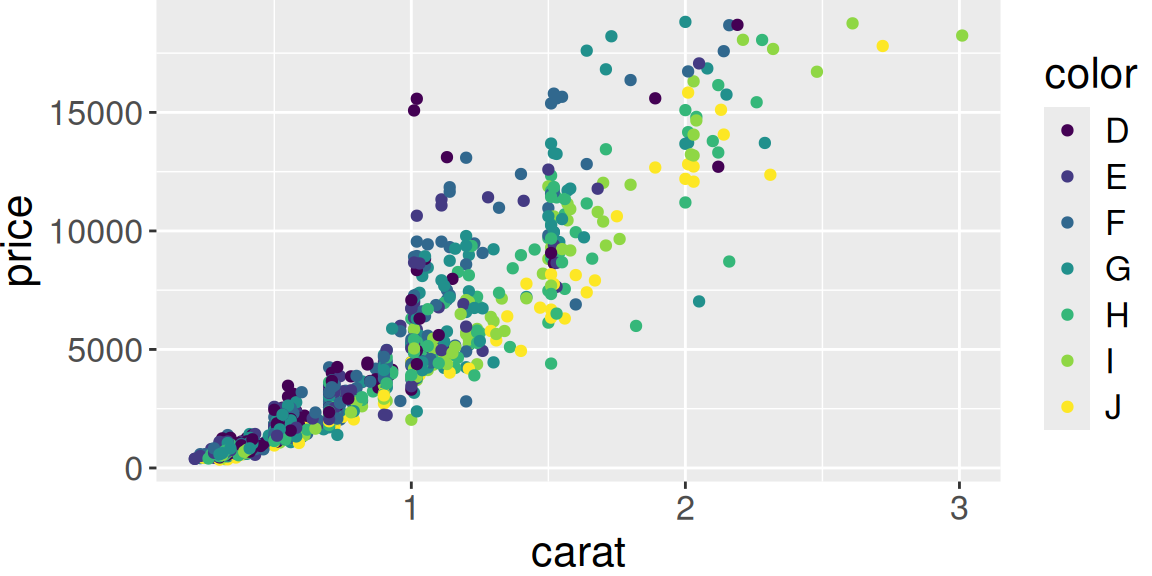
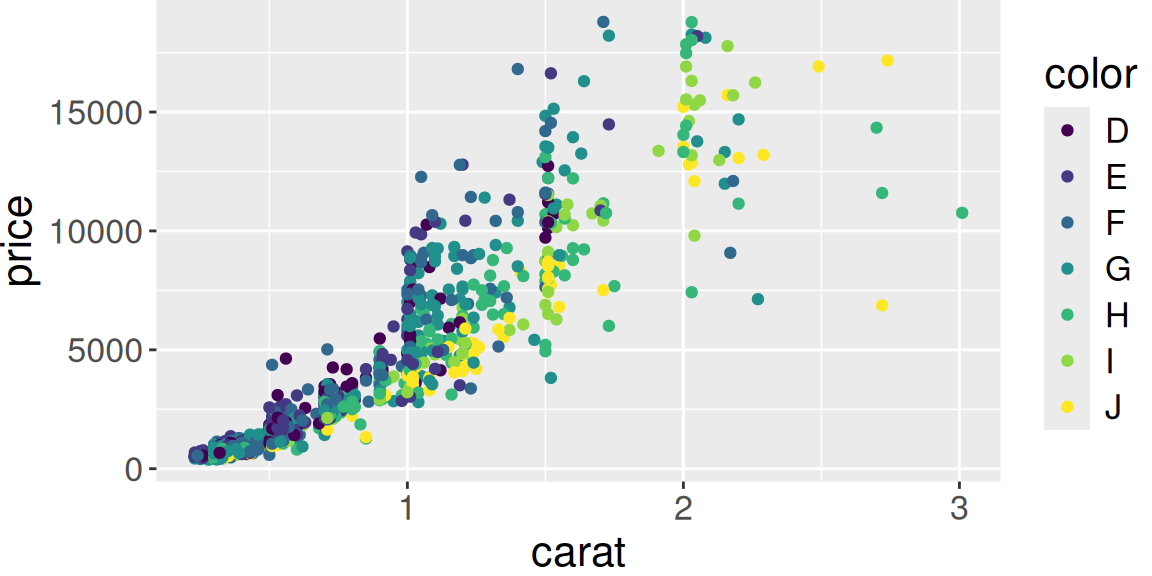
TEST

diff --git a/index.html b/index.html
@@ -5,7 +5,7 @@
   <meta name="generator" content="pandoc">
   <meta name="author" content="Nicole Kinlock" />
   <meta name="dcterms.date" content="2025-06-11" />
-  <title>R mini course</title>
+  <title>R mini course TEST</title>
   <meta name="apple-mobile-web-app-capable" content="yes">
   <meta name="apple-mobile-web-app-status-bar-style" content="black-translucent">
   <meta name="viewport" content="width=device-width, initial-scale=1.0, maximum-scale=1.0, user-scalable=no, minimal-ui">
@@ -130,7 +130,7 @@
     <div class="slides">
 
 <section id="title-slide">
-  <h1 class="title">R mini course</h1>
+  <h1 class="title">R mini course TEST</h1>
   <h2 class="author">Nicole Kinlock</h2>
   <h3 class="date">June 11, 2025</h3>
 </section>
@@ -671,7 +671,7 @@ value of these elements?</p></li>
 function</p>
 <div class="sourceCode" id="cb65"><pre class="sourceCode r"><code class="sourceCode r"><span id="cb65-1"><a href="#cb65-1" aria-hidden="true" tabindex="-1"></a>norm <span class="ot">&lt;-</span> <span class="fu">rnorm</span>(<span class="at">n =</span> <span class="dv">1000</span>, <span class="at">mean =</span> <span class="dv">0</span>, <span class="at">sd =</span> <span class="dv">1</span>)</span>
 <span id="cb65-2"><a href="#cb65-2" aria-hidden="true" tabindex="-1"></a><span class="fu">head</span>(norm)</span></code></pre></div>
-<pre><code>## [1]  2.0235244  0.6195797 -0.2248441 -0.2144881 -0.4949040 -0.2877673</code></pre>
+<pre><code>## [1]  0.8861641 -0.2489742 -1.7741566  1.4745526  1.1570297  0.8432353</code></pre>
 <p><img src="index_files/figure-revealjs/unnamed-chunk-26-1.png" width="288" /></p>
 </section>
 <section id="your-turn-5" class="slide level2"
@@ -766,9 +766,9 @@ histogram of the sample.</p></li>
 <code>sample()</code> function</p>
 <div class="sourceCode" id="cb68"><pre class="sourceCode r"><code class="sourceCode r"><span id="cb68-1"><a href="#cb68-1" aria-hidden="true" tabindex="-1"></a>x <span class="ot">&lt;-</span> <span class="dv">1</span><span class="sc">:</span><span class="dv">50</span></span>
 <span id="cb68-2"><a href="#cb68-2" aria-hidden="true" tabindex="-1"></a><span class="fu">sample</span>(x, <span class="at">size =</span> <span class="dv">20</span>)  <span class="co"># sample without replacement</span></span></code></pre></div>
-<pre><code>##  [1] 10 12 16 11 36 46  8  5 14 42 24 34  6 28 49 20 18 44  7 31</code></pre>
+<pre><code>##  [1]  3 32 42 26 14 16 43 35 28  1  2 31 21  4 29 36 15 11 45 18</code></pre>
 <div class="sourceCode" id="cb70"><pre class="sourceCode r"><code class="sourceCode r"><span id="cb70-1"><a href="#cb70-1" aria-hidden="true" tabindex="-1"></a><span class="fu">sample</span>(x, <span class="at">size =</span> <span class="dv">20</span>, <span class="at">replace =</span> <span class="cn">TRUE</span>)  <span class="co"># sample with replacement</span></span></code></pre></div>
-<pre><code>##  [1] 25 43 39 16  8 20 17 16 25 48 33 41 44 11 38 50 25 12 35 33</code></pre>
+<pre><code>##  [1]  2  1 11  2 23 16 14  2  7 44 20 32 50  8  7 23 24 50 12 41</code></pre>
 </section>
 <section id="your-turn-8" class="slide level2"
 data-background-color="#b3cde3">
@@ -1674,8 +1674,8 @@ class="sourceCode r"><code class="sourceCode r"><span id="cb185-1"><a href="#cb1
 <span id="cb185-4"><a href="#cb185-4" aria-hidden="true" tabindex="-1"></a>    output.vec[i] <span class="ot">&lt;-</span> x[i] <span class="sc">*</span> <span class="dv">10</span></span>
 <span id="cb185-5"><a href="#cb185-5" aria-hidden="true" tabindex="-1"></a>}</span>
 <span id="cb185-6"><a href="#cb185-6" aria-hidden="true" tabindex="-1"></a>output.vec</span></code></pre></div>
-<pre><code>##  [1]  3.647758  9.737986  7.918528  8.906231  2.546560  1.014760 18.222218
-##  [8] 15.577186  5.902993  3.454475</code></pre>
+<pre><code>##  [1]  7.5114531  5.4902849  3.9083699 10.8623299 12.1150292 13.3143443
+##  [7] 11.3995153  0.8978763 12.0780165  2.1260210</code></pre>
 </section>
 <section id="how-do-we-save-for-loop-outputs-1" class="slide level2">
 <h2>How do we save for-loop outputs?</h2>
@@ -1691,8 +1691,8 @@ class="sourceCode r"><code class="sourceCode r"><span id="cb187-1"><a href="#cb1
 <span id="cb187-4"><a href="#cb187-4" aria-hidden="true" tabindex="-1"></a>    output.vec[i] <span class="ot">&lt;-</span> x[i] <span class="sc">*</span> <span class="dv">10</span></span>
 <span id="cb187-5"><a href="#cb187-5" aria-hidden="true" tabindex="-1"></a>}</span>
 <span id="cb187-6"><a href="#cb187-6" aria-hidden="true" tabindex="-1"></a>output.vec</span></code></pre></div>
-<pre><code>##  [1] 17.286015  7.683266 10.372833  7.331214 11.929529 12.529461  8.724110
-##  [8]  1.377951 13.985177 12.193510</code></pre>
+<pre><code>##  [1]  3.64806158  9.03782921  2.83679823 14.04016806  2.76244785 18.20414756
+##  [7]  8.90670954  9.23140684  0.06322089  0.72076257</code></pre>
 </section>
 <section id="your-turn-16" class="slide level2"
 data-background-color="#b3cde3">
@@ -1760,7 +1760,7 @@ class="sourceCode r"><code class="sourceCode r"><span id="cb194-1"><a href="#cb1
 <span id="cb194-8"><a href="#cb194-8" aria-hidden="true" tabindex="-1"></a>    }</span>
 <span id="cb194-9"><a href="#cb194-9" aria-hidden="true" tabindex="-1"></a>}</span>
 <span id="cb194-10"><a href="#cb194-10" aria-hidden="true" tabindex="-1"></a>output.vec</span></code></pre></div>
-<pre><code>##  [1] -100 -100 -100 -100    1 -100 -100    4 -100    4</code></pre>
+<pre><code>##  [1]    4    1    1 -100    1    1 -100 -100    4 -100</code></pre>
 </section>
 <section id="control-flow-statements---break" class="slide level2">
 <h2>Control flow statements - break</h2>
@@ -1835,13 +1835,13 @@ arguments
 <div class="sourceCode" id="cb200"><pre
 class="sourceCode r"><code class="sourceCode r"><span id="cb200-1"><a href="#cb200-1" aria-hidden="true" tabindex="-1"></a>M <span class="ot">&lt;-</span> <span class="fu">matrix</span>(<span class="fu">rnorm</span>(<span class="dv">9</span>), <span class="at">ncol =</span> <span class="dv">3</span>, <span class="at">nrow =</span> <span class="dv">3</span>)</span>
 <span id="cb200-2"><a href="#cb200-2" aria-hidden="true" tabindex="-1"></a>M</span></code></pre></div>
-<pre><code>##            [,1]       [,2]       [,3]
-## [1,] -0.4642892 -0.5501913 -0.7001564
-## [2,] -1.5674587 -1.1784813 -1.2992266
-## [3,] -1.2042780 -0.4516637 -1.0629343</code></pre>
+<pre><code>##             [,1]       [,2]      [,3]
+## [1,]  0.07338132 -0.9516929 -0.578038
+## [2,] -0.12021211 -1.5081028  1.493833
+## [3,] -0.31325197 -1.1734731 -0.934643</code></pre>
 <div class="sourceCode" id="cb202"><pre
 class="sourceCode r"><code class="sourceCode r"><span id="cb202-1"><a href="#cb202-1" aria-hidden="true" tabindex="-1"></a><span class="fu">apply</span>(M, <span class="dv">2</span>, median)</span></code></pre></div>
-<pre><code>## [1] -1.2042780 -0.5501913 -1.0629343</code></pre>
+<pre><code>## [1] -0.1202121 -1.1734731 -0.5780380</code></pre>
 </section>
 <section id="apply-vs.-for-loop" class="slide level2">
 <h2><code>apply</code> vs. for-loop</h2>
@@ -1852,7 +1852,7 @@ class="sourceCode r"><code class="sourceCode r"><span id="cb204-1"><a href="#cb2
 <span id="cb204-3"><a href="#cb204-3" aria-hidden="true" tabindex="-1"></a>    median.vec[i] <span class="ot">&lt;-</span> <span class="fu">median</span>(M[, i])</span>
 <span id="cb204-4"><a href="#cb204-4" aria-hidden="true" tabindex="-1"></a>}</span>
 <span id="cb204-5"><a href="#cb204-5" aria-hidden="true" tabindex="-1"></a>median.vec</span></code></pre></div>
-<pre><code>## [1] -1.2042780 -0.5501913 -1.0629343</code></pre>
+<pre><code>## [1] -0.1202121 -1.1734731 -0.5780380</code></pre>
 </section>
 <section id="apply-family-of-functions" class="slide level2">
 <h2><code>apply</code> family of functions</h2>
@@ -1889,7 +1889,7 @@ class="sourceCode r"><code class="sourceCode r"><span id="cb208-1"><a href="#cb2
 ## [1] 12.3
 ## 
 ## [[3]]
-## [1] -2.512065</code></pre>
+## [1] 3.100375</code></pre>
 </section>
 <section id="useful-links" class="slide level2">
 <h2>Useful links</h2>
@@ -2444,9 +2444,9 @@ observations in each row</p>
 <div class="sourceCode" id="cb251"><pre
 class="sourceCode r"><code class="sourceCode r"><span id="cb251-1"><a href="#cb251-1" aria-hidden="true" tabindex="-1"></a>spp.df.wide[<span class="dv">1</span><span class="sc">:</span><span class="dv">3</span>, ]</span></code></pre></div>
 <pre><code>##   SpeciesA SpeciesB SpeciesC SpeciesD
-## 1 49.50402 80.42932 20.69487 24.98056
-## 2 51.71980 78.74751 20.01322 23.54121
-## 3 51.22642 70.36322 20.67263 24.36075</code></pre>
+## 1 49.06959 83.07043 20.73574 24.52579
+## 2 48.40202 65.36905 20.13689 26.22547
+## 3 50.09242 75.78387 20.52578 24.72197</code></pre>
 <div class="sourceCode" id="cb253"><pre
 class="sourceCode r"><code class="sourceCode r"><span id="cb253-1"><a href="#cb253-1" aria-hidden="true" tabindex="-1"></a><span class="fu">dim</span>(spp.df.wide)</span></code></pre></div>
 <pre><code>## [1] 100   4</code></pre>
@@ -2458,9 +2458,9 @@ format, with only one row per observation (experimental unit)</p>
 <div class="sourceCode" id="cb255"><pre
 class="sourceCode r"><code class="sourceCode r"><span id="cb255-1"><a href="#cb255-1" aria-hidden="true" tabindex="-1"></a>spp.df.long[<span class="dv">1</span><span class="sc">:</span><span class="dv">3</span>, ]</span></code></pre></div>
 <pre><code>##   Species     Mass
-## 1       A 80.82865
-## 2       B 76.20810
-## 3       C 67.97256</code></pre>
+## 1       A 66.64098
+## 2       B 75.87060
+## 3       C 73.08989</code></pre>
 <div class="sourceCode" id="cb257"><pre
 class="sourceCode r"><code class="sourceCode r"><span id="cb257-1"><a href="#cb257-1" aria-hidden="true" tabindex="-1"></a><span class="fu">dim</span>(spp.df.long)</span></code></pre></div>
 <pre><code>## [1] 400   2</code></pre>
@@ -2475,12 +2475,12 @@ class="sourceCode r"><code class="sourceCode r"><span id="cb259-1"><a href="#cb2
 <span id="cb259-5"><a href="#cb259-5" aria-hidden="true" tabindex="-1"></a>                           <span class="at">D =</span> <span class="fu">rnorm</span>(<span class="dv">100</span>, <span class="dv">55</span>, <span class="dv">3</span>))</span>
 <span id="cb259-6"><a href="#cb259-6" aria-hidden="true" tabindex="-1"></a><span class="fu">head</span>(test.df.wide)</span></code></pre></div>
 <pre><code>##          A        B        C        D
-## 1 47.84023 81.15026 56.94995 50.43480
-## 2 61.00265 76.08040 44.45706 52.15845
-## 3 49.62270 80.18758 47.86186 49.58533
-## 4 46.58760 68.04425 48.94547 61.58026
-## 5 56.93436 74.59749 49.35064 52.17808
-## 6 48.47184 72.58853 53.68440 58.59832</code></pre>
+## 1 56.68955 71.04284 45.42085 58.52070
+## 2 62.60548 70.76774 51.61782 57.61679
+## 3 49.93849 83.05699 54.69181 54.16641
+## 4 42.66107 73.48540 50.19038 54.95161
+## 5 46.63581 75.40971 53.05156 57.19263
+## 6 45.40071 72.83677 49.71768 51.48626</code></pre>
 </section>
 <section id="melting-from-wide-to-long-1" class="slide level2">
 <h2>Melting: from wide to long</h2>
@@ -2493,12 +2493,12 @@ class="sourceCode r"><code class="sourceCode r"><span id="cb261-1"><a href="#cb2
 <span id="cb261-4"><a href="#cb261-4" aria-hidden="true" tabindex="-1"></a>                     <span class="at">value.name =</span> <span class="st">&quot;Mass&quot;</span>)</span>
 <span id="cb261-5"><a href="#cb261-5" aria-hidden="true" tabindex="-1"></a><span class="fu">head</span>(test.df.long)</span></code></pre></div>
 <pre><code>##   Species     Mass
-## 1       A 47.84023
-## 2       A 61.00265
-## 3       A 49.62270
-## 4       A 46.58760
-## 5       A 56.93436
-## 6       A 48.47184</code></pre>
+## 1       A 56.68955
+## 2       A 62.60548
+## 3       A 49.93849
+## 4       A 42.66107
+## 5       A 46.63581
+## 6       A 45.40071</code></pre>
 </section>
 <section id="melting-from-wide-to-long-2" class="slide level2">
 <h2>Melting: from wide to long</h2>
